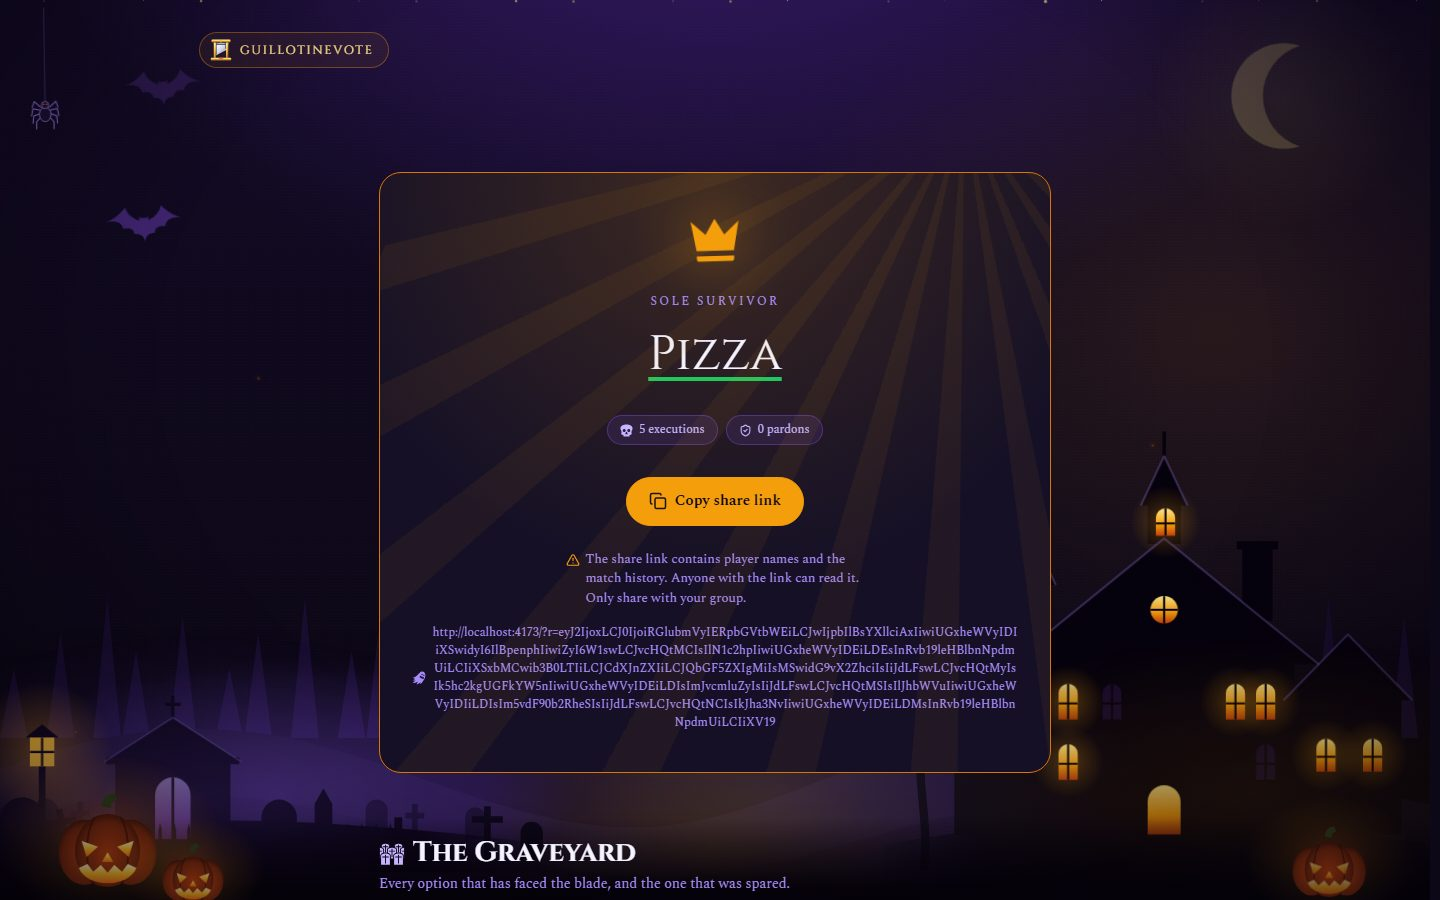
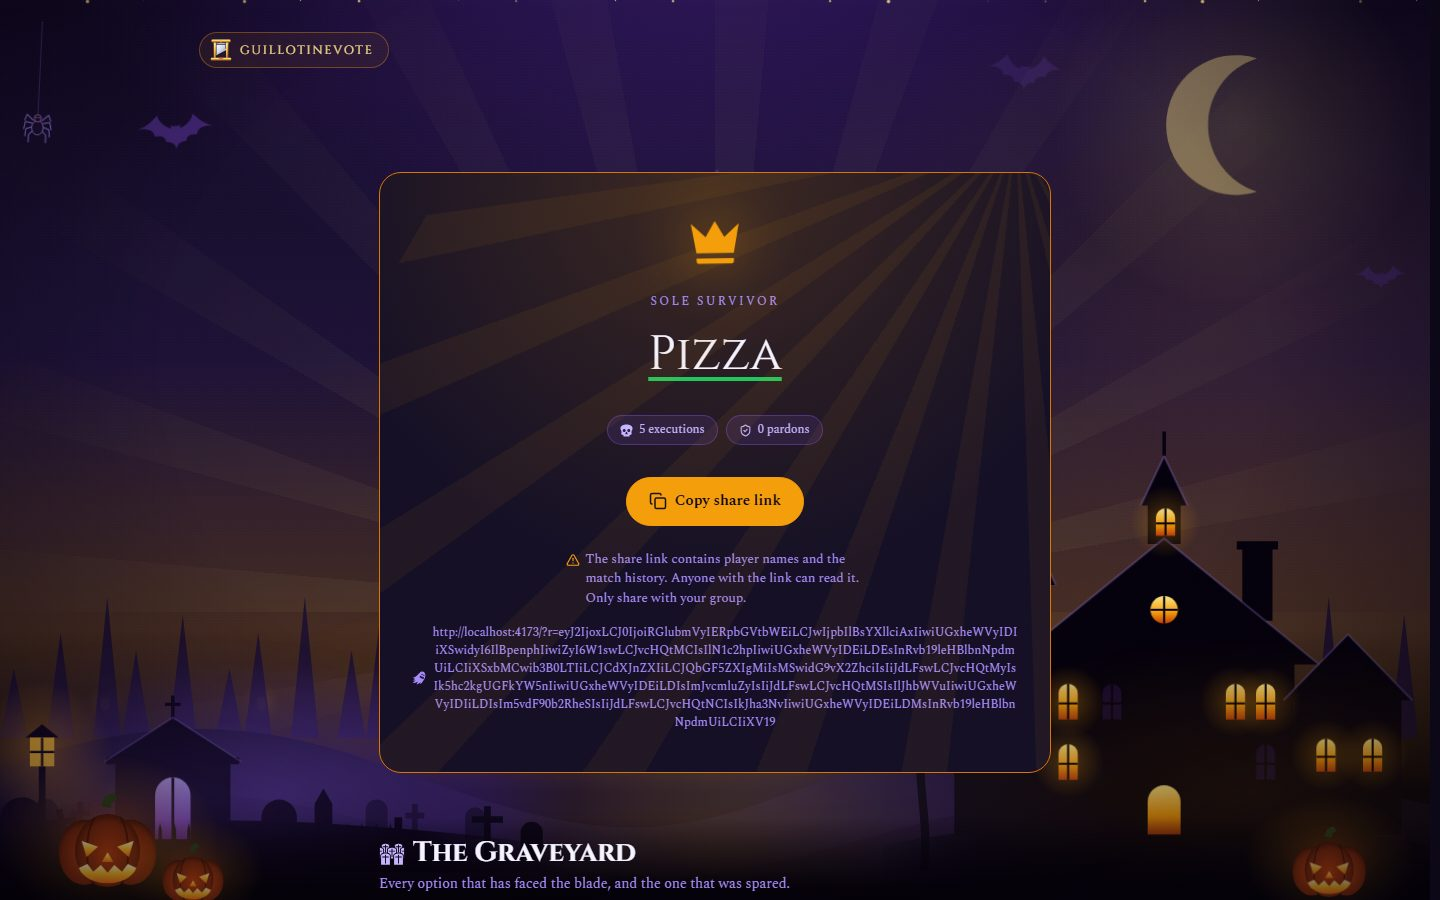
Add MIT license, refresh README screenshots, show per-page scenes

diff --git a/README.md b/README.md
@@ -15,6 +15,7 @@ Take turns executing the option you like least, until one survivor holds the dec
 ![Tests](https://img.shields.io/badge/tests-Vitest%20%2B%20fast--check-6e9f18?logo=vitest&logoColor=white)
 ![No backend](https://img.shields.io/badge/backend-none-8b5cf6)
 ![Category](https://img.shields.io/badge/Kiroween%202026-Costume%20Contest-f59e0b)
+![License](https://img.shields.io/badge/license-MIT-blue)
 
 <img src="public/og-image.jpg" alt="GuillotineVote: vote for what you hate, not what you love" width="720">
 
@@ -65,6 +66,21 @@ It runs on a single shared device, in the browser. No account, no server, no dat
   <br>
   <sub>Built for the phone first: one column, thumb-sized buttons, and a guillotine that stays in view.</sub>
 </p>
+
+Every page has its own night scene: a haunted manor on the landing page, a blood-moon courtyard for the trial, a crypt for Match history, a pine forest for the FAQ, a torch-lit dungeon for the docket, and a golden dawn for the winner.
+
+<table>
+  <tr>
+    <td width="33%"><img src="docs/screenshots/history.jpg" alt="Match history in a crypt with floating ghosts"></td>
+    <td width="33%"><img src="docs/screenshots/faq.jpg" alt="The FAQ in a pine forest with glowing eyes"></td>
+    <td width="33%"><img src="docs/screenshots/setup.jpg" alt="The docket form in a torch-lit dungeon"></td>
+  </tr>
+  <tr>
+    <td align="center"><sub>Match history: the crypt</sub></td>
+    <td align="center"><sub>FAQ: the forest</sub></td>
+    <td align="center"><sub>Docket: the dungeon</sub></td>
+  </tr>
+</table>
 
 ## Features
 
@@ -171,3 +187,9 @@ docs/screenshots/    Images used in this README
 - [React](https://react.dev/), [Vite](https://vite.dev/), [GSAP](https://gsap.com/), [Lucide](https://lucide.dev/)
 - Icons from [game-icons.net](https://game-icons.net/) (CC BY 3.0, by Lorc, Delapouite and other contributors) and [Material Design Icons](https://pictogrammers.com/library/mdi/) (Apache 2.0), through [Iconify](https://iconify.design/)
 - Fonts: [Cinzel](https://fonts.google.com/specimen/Cinzel) and [Spectral](https://fonts.google.com/specimen/Spectral), both under the SIL Open Font License
+
+## License
+
+Released under the [MIT License](LICENSE). Copyright (c) 2026 Raid.
+
+The third-party icons and fonts listed under Credits keep their own licenses.
